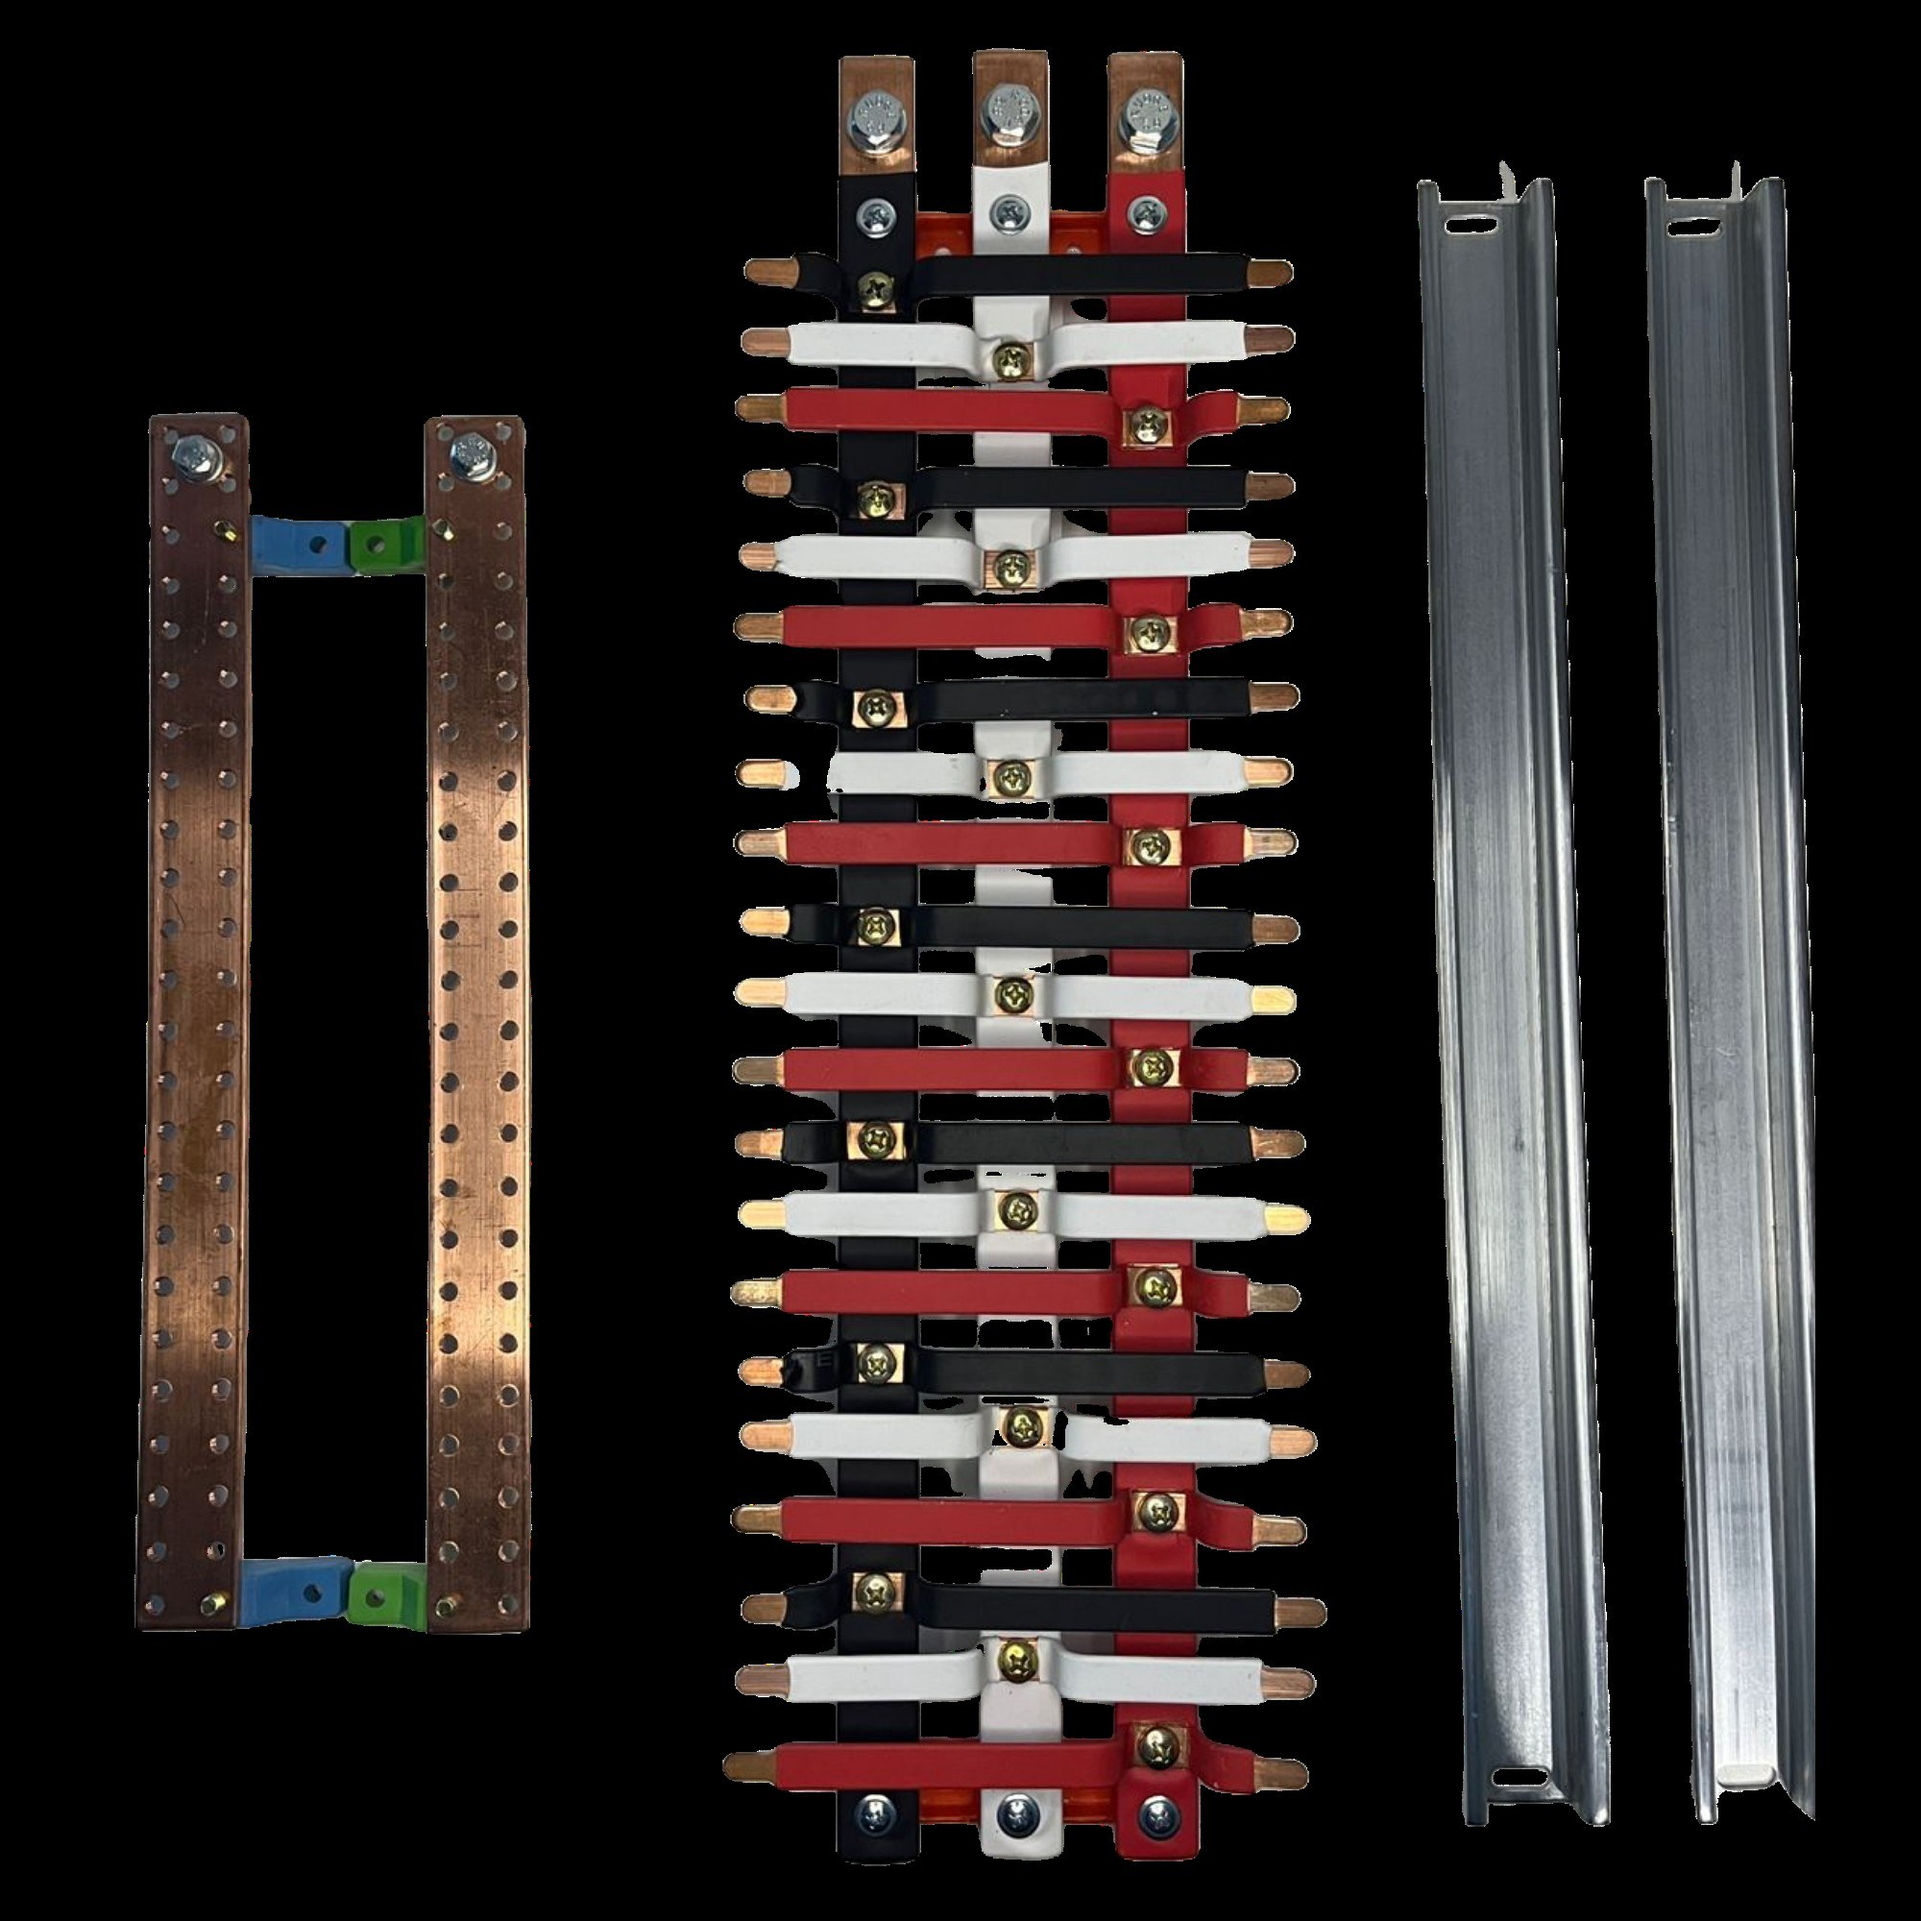
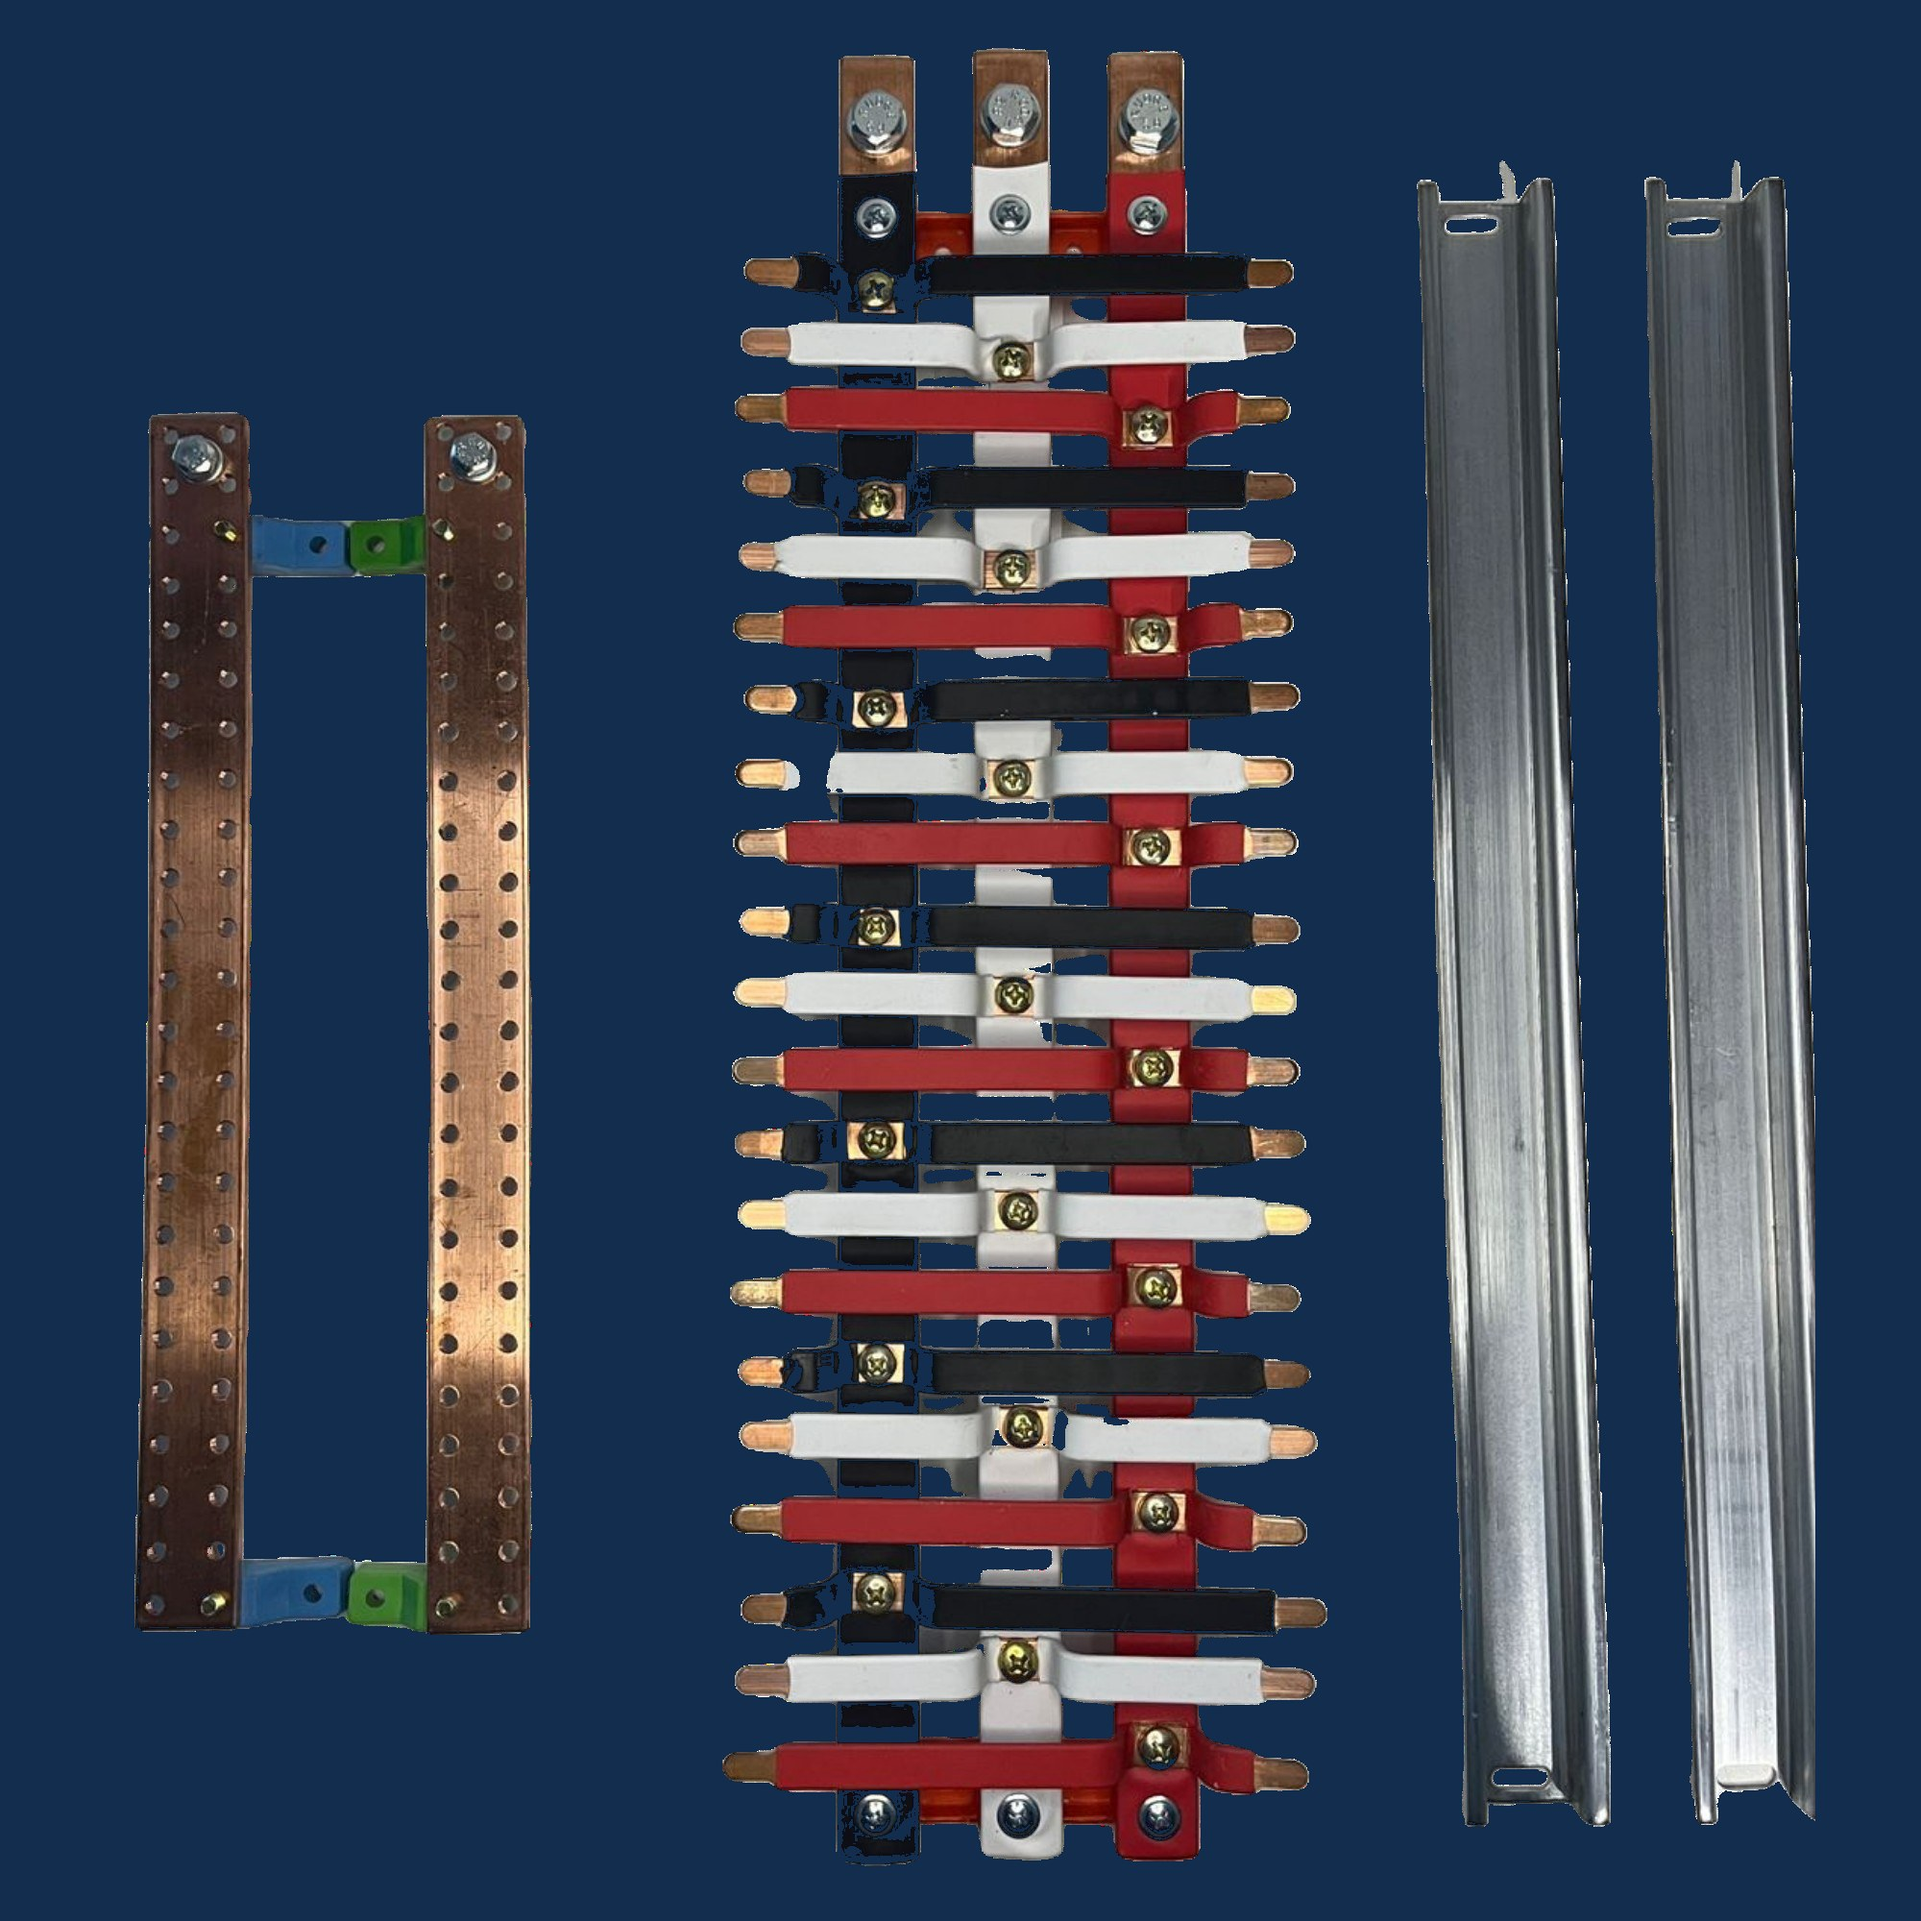
Fotos com fundo azul A&E

diff --git a/styles.css b/styles.css
@@ -308,7 +308,7 @@ ul { list-style:none; }
     width:100%;aspect-ratio:1/1;
     border-radius:var(--radius-lg);overflow:hidden;
     border:2px solid rgba(255,255,255,0.1);
-    background:#0f2744;
+    background:#122d4e;
     position:relative;
     box-shadow:0 25px 80px rgba(0,0,0,0.4), 0 0 40px rgba(200,152,44,0.08);
 }
